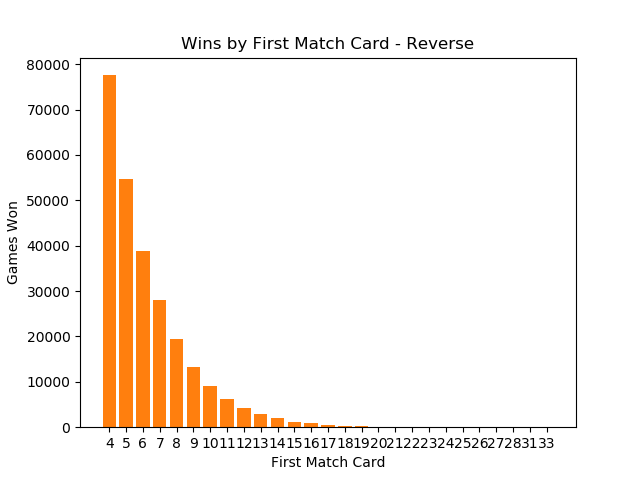
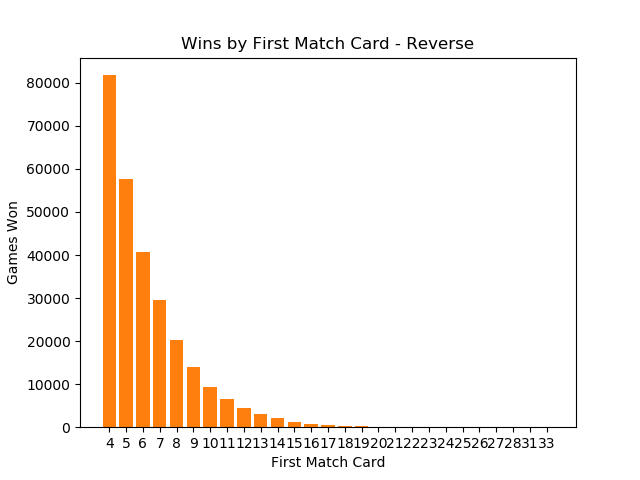
Updated stats since it has been a while

diff --git a/stats/stats.md b/stats/stats.md
@@ -1,4 +1,4 @@
 | Game Type | Games Played | Wins | Win Percentage |
 | --------- |:------------:|:----:|:--------------:|
-| Normal  | 5,000,000 | 26,214 | 0.52% |
-| Reverse  | 5,000,000 | 259,436 | 5.19% |
+| Normal  | 5,270,500 | 27,645 | 0.52% |
+| Reverse  | 5,270,500 | 273,359 | 5.19% |
